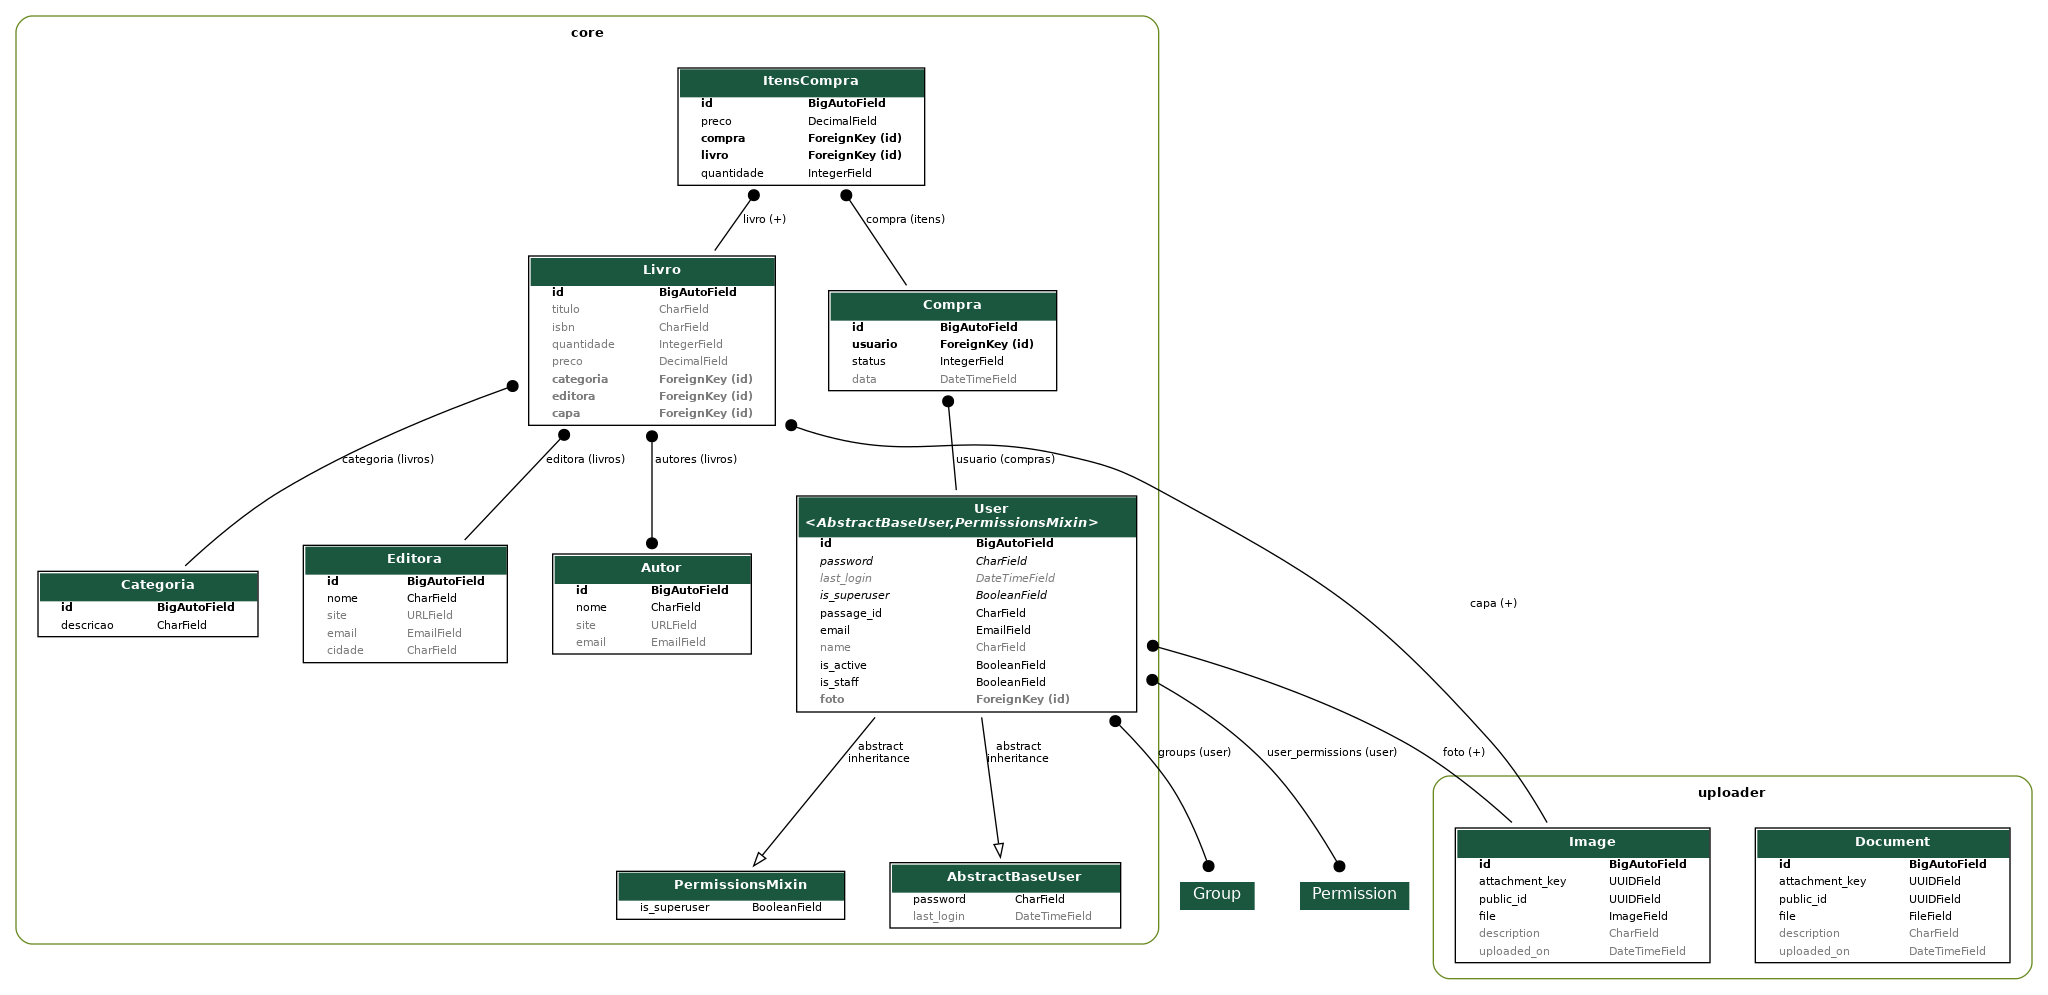
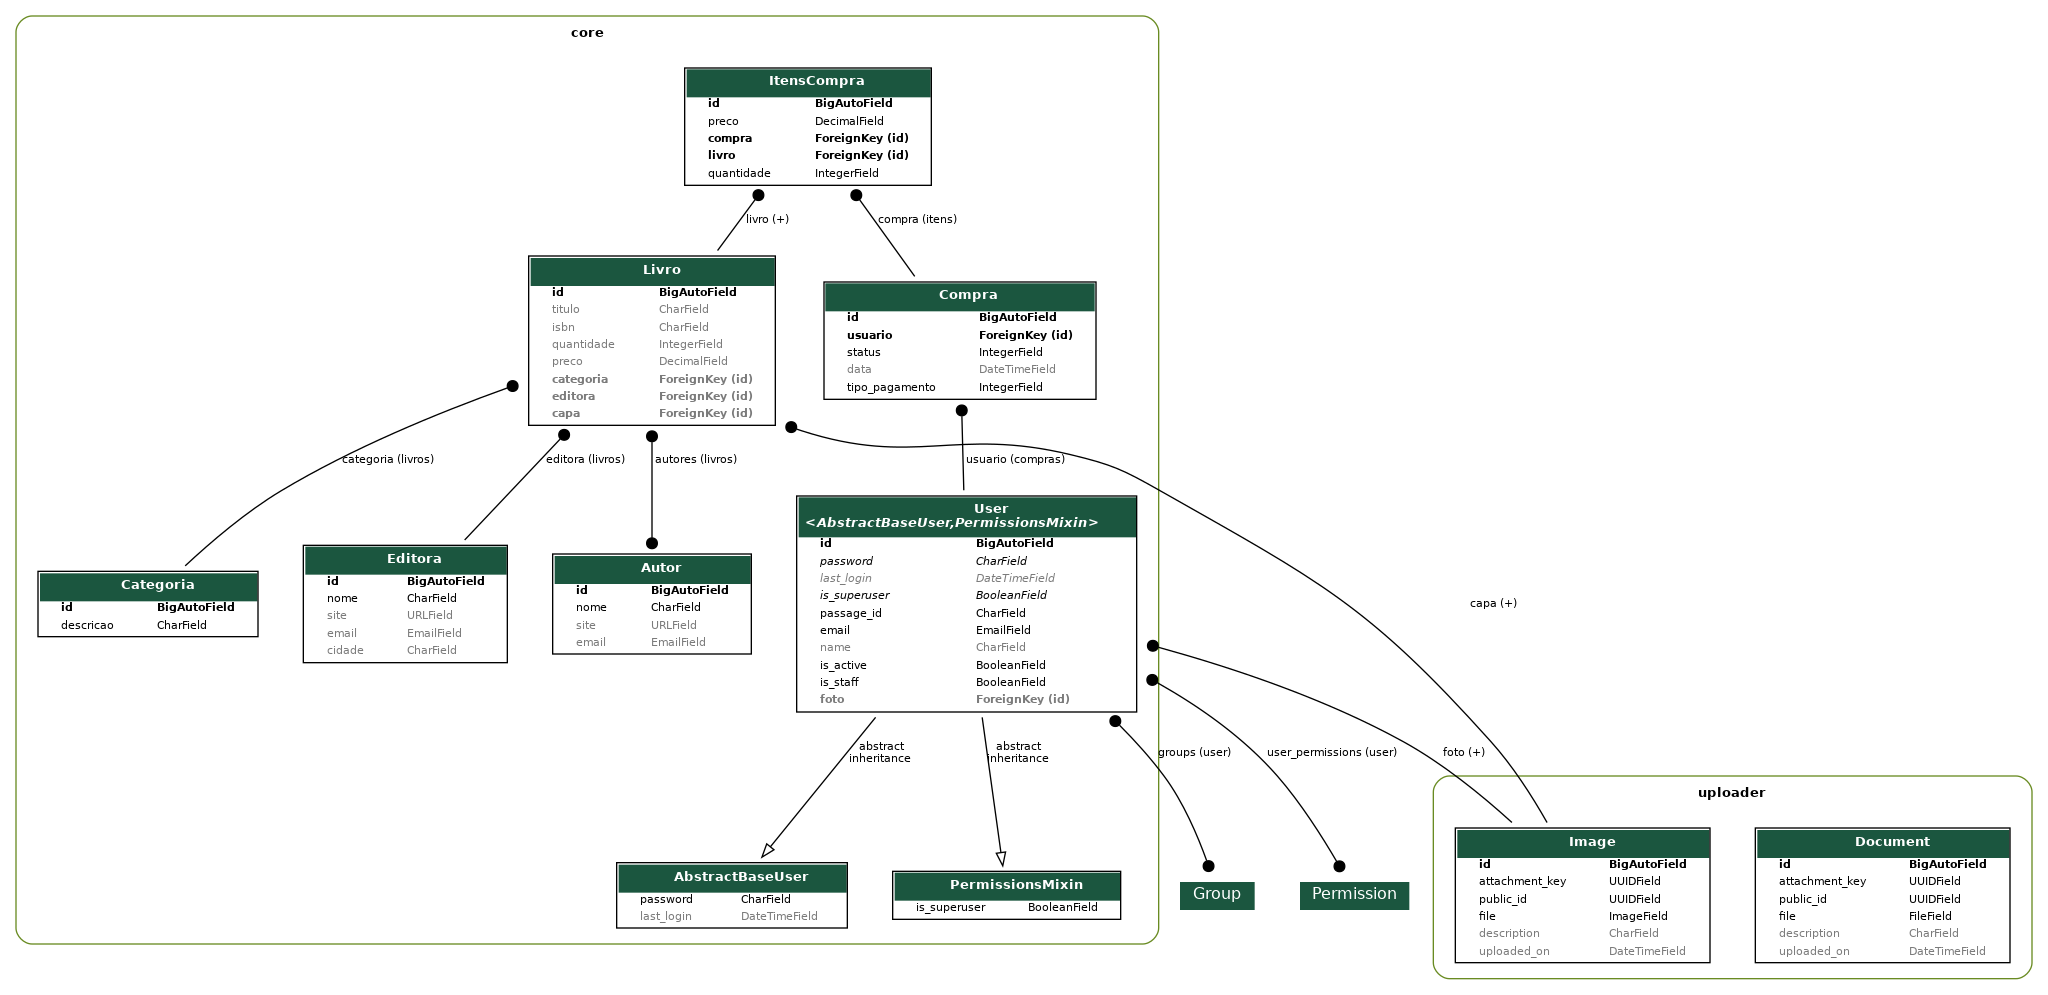
Adicionando tipo de pagamento à entidade de Compra

diff --git a/core/models/compra.py b/core/models/compra.py
@@ -5,6 +5,15 @@ from .livro import Livro
 
 
 class Compra(models.Model):
+    class TipoPagamento(models.IntegerChoices):
+        CARTAO_CREDITO = 1, "Cartão de Crédito"
+        CARTAO_DEBITO = 2, "Cartão de Débito"
+        PIX = 3, "PIX"
+        BOLETO = 4, "Boleto"
+        TRANSFERENCIA_BANCARIA = 5, "Transferência Bancária"
+        DINHEIRO = 6, "Dinheiro"
+        OUTRO = 7, "Outro"
+
     class StatusCompra(models.IntegerChoices):
         CARRINHO = 1, "Carrinho"
         FINALIZADO = 2, "Realizado"
@@ -14,6 +23,7 @@ class Compra(models.Model):
     usuario = models.ForeignKey(User, on_delete=models.PROTECT, related_name="compras")
     status = models.IntegerField(choices=StatusCompra.choices,  default=StatusCompra.CARRINHO)
     data = models.DateTimeField(auto_now_add=True)
+    tipo_pagamento = models.IntegerField(choices=TipoPagamento.choices, default=TipoPagamento.CARTAO_CREDITO)
 
 class ItensCompra(models.Model):
     preco = models.DecimalField(max_digits=10, decimal_places=2, default=0)

diff --git a/core/migrations/0017_compra_tipo_pagamento.py b/core/migrations/0017_compra_tipo_pagamento.py
@@ -1,0 +1,29 @@
+# Generated by Django 5.1.4 on 2024-12-16 11:54
+
+from django.db import migrations, models
+
+
+class Migration(migrations.Migration):
+
+    dependencies = [
+        ("core", "0016_compra_data"),
+    ]
+
+    operations = [
+        migrations.AddField(
+            model_name="compra",
+            name="tipo_pagamento",
+            field=models.IntegerField(
+                choices=[
+                    (1, "Cartão de Crédito"),
+                    (2, "Cartão de Débito"),
+                    (3, "PIX"),
+                    (4, "Boleto"),
+                    (5, "Transferência Bancária"),
+                    (6, "Dinheiro"),
+                    (7, "Outro"),
+                ],
+                default=1,
+            ),
+        ),
+    ]

diff --git a/core/serializers/compra.py b/core/serializers/compra.py
@@ -22,13 +22,15 @@ class ItensCompraSerializer(ModelSerializer):
         depth = 1
 
 class CompraSerializer(ModelSerializer):
+    data = DateTimeField(read_only=True)
+    tipo_pagamento = CharField(source="get_tipo_pagamento_display", read_only=True)
     itens = ItensCompraSerializer(many=True, read_only=True)
     status = CharField(source="get_status_display", read_only=True)
     usuario = CharField(source="usuario.email", read_only=True)
 
     class Meta:
         model = Compra
-        fields = ("id", "usuario", "status", "total", "data", "itens")
+        fields = ("id", "usuario", "status", "total", "data", "tipo_pagamento", "itens")
 
 class ItensCompraCreateUpdateSerializer(ModelSerializer):
     class Meta:
